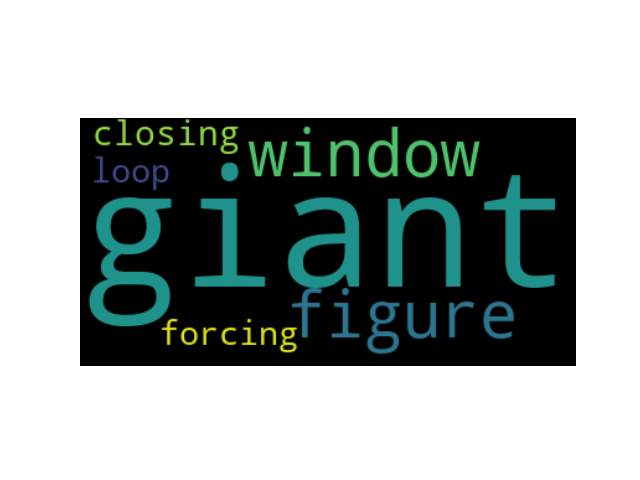
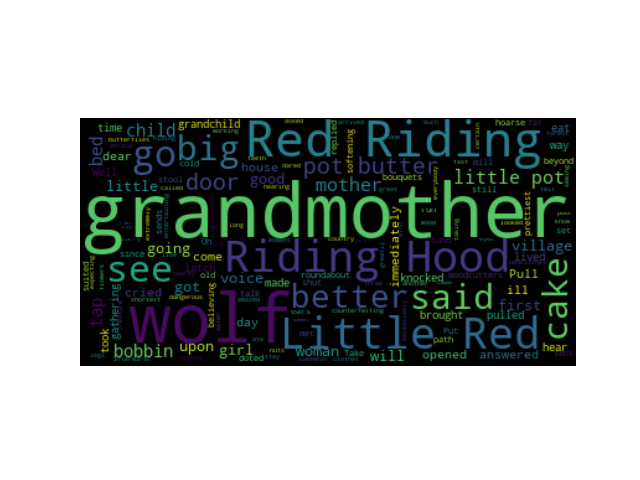
se agregan nuevos servicio

Changed region(s): [[0.125, 0.25, 0.9062, 0.75]]

diff --git a/API_SENTIMENT.py b/API_SENTIMENT.py
@@ -7,6 +7,9 @@ from wordcloud import WordCloud
 import matplotlib.pyplot as plt
 from bson.code import Code
 import re
+import numpy as np
+from PIL import Image
+from os import path
 import bson
 
 # Configuracion de las caracteristicas de los servicios
@@ -25,6 +28,8 @@ class Application( tornado.web.Application ):
             (r"/followersAll", getFollowersAll),
             (r"/general", getInfoGeneral),
             (r"/generalDos", getInfoGeneralDos),
+            (r"/getInfoGeneralTres", getInfoGeneralTres),
+            (r"/getInfoGeneralCuatro", getInfoGeneralCuatro),
             (r"/geo", getGeoSentiment),
             (r"/getLastTweetsByAccount/(.*)", getLastTweetsByAccount),
             (r"/getLastReplayByTweetID/(.*)", getLastReplayByTweetID),
@@ -72,6 +77,70 @@ class getInfoGeneralDos(BaseHandler):
 
         json.append(response_json)
         self.write(dumps(json))
+
+
+class getInfoGeneralTres(BaseHandler):
+    def get(self):
+        client = MongoClient('bigdata-mongodb-01', 27017)
+        db = client['Grupo10']
+        mine = db['tweets']
+        personajes = ['CGurisattiNTN24', 'DanielSamperO', 'ELTIEMPO', 'elespectador', 'NoticiasCaracol', 'NoticiasRCN',
+                      'CaracolRadio', 'BluRadioCo', 'JuanManSantos', 'ClaudiaLopez', 'German_Vargas', 'AlvaroUribeVel',
+                      'AndresPastrana_', 'TimoFARC', 'OIZuluaga', 'A_OrdonezM', 'JSantrich_FARC', 'IvanDuque',
+                      'mluciaramirez', 'petrogustavo', 'DeLaCalleHum', 'FARC_EPaz'];
+
+        json = []
+
+
+        for persona in personajes:
+            response_json = {}
+            response_json["name"] = persona
+            series = mine.aggregate([
+                {"$match": {"screen_name":persona}},
+                {"$group": {"_id": "$sentiment", "value": {"$sum": 1}}},
+                {"$project": {
+                    "name": "$_id",
+                    "value": 1,
+                    "_id":0
+                }}])
+
+            response_json["series"] = series
+            json.append(response_json)
+
+        self.write(dumps(json))
+
+class getInfoGeneralCuatro(BaseHandler):
+    def get(self):
+        client = MongoClient('bigdata-mongodb-01', 27017)
+        db = client['Grupo10']
+        mine = db['tweets']
+        personajes = ['CGurisattiNTN24', 'DanielSamperO', 'ELTIEMPO', 'elespectador', 'NoticiasCaracol', 'NoticiasRCN',
+                      'CaracolRadio', 'BluRadioCo', 'JuanManSantos', 'ClaudiaLopez', 'German_Vargas', 'AlvaroUribeVel',
+                      'AndresPastrana_', 'TimoFARC', 'OIZuluaga', 'A_OrdonezM', 'JSantrich_FARC', 'IvanDuque',
+                      'mluciaramirez', 'petrogustavo', 'DeLaCalleHum', 'FARC_EPaz'];
+
+        json = []
+
+
+        for persona in personajes:
+            response_json = {}
+            response_json["name"] = persona
+            series = mine.aggregate([
+                {"$match": {"entities_mentions":persona}},
+                {"$group": {"_id": "$sentiment", "value": {"$sum": 1}}},
+                {"$project": {
+                    "name": "$_id",
+                    "value": 1,
+                    "_id":0
+                }}])
+
+            response_json["series"] = series
+            json.append(response_json)
+
+        self.write(dumps(json))
+
+
+
 
 class getGeoSentiment(BaseHandler):
     def get(self):
@@ -170,11 +239,14 @@ class getTopics(BaseHandler):
 
 class doCloud(BaseHandler):
     def get(self):
+        d = path.dirname(__file__)
+        #col_mask = np.array(Image.open(path.join(d, "images/col.png")))
+        #text = "y es es es es es es es es es es es es forcing the closing of the figure window in my giant loop, so I do"
+        text = open(path.join(d, 'images/red.txt')).read()
 
-
-        text = "y forcing the closing of the figure window in my giant loop, so I do"
-
-        wordcloud = WordCloud(max_font_size=200).generate(text)
+        wordcloud = WordCloud( max_font_size=1000).generate(text)
+        #wordcloud = WordCloud(mask=col_mask, max_font_size=1000).generate(text)
+       # fig = plt.figure(figsize=(4.2,6.2))
         fig = plt.figure()
         plt.imshow(wordcloud, interpolation='bilinear')
         plt.axis("off")
